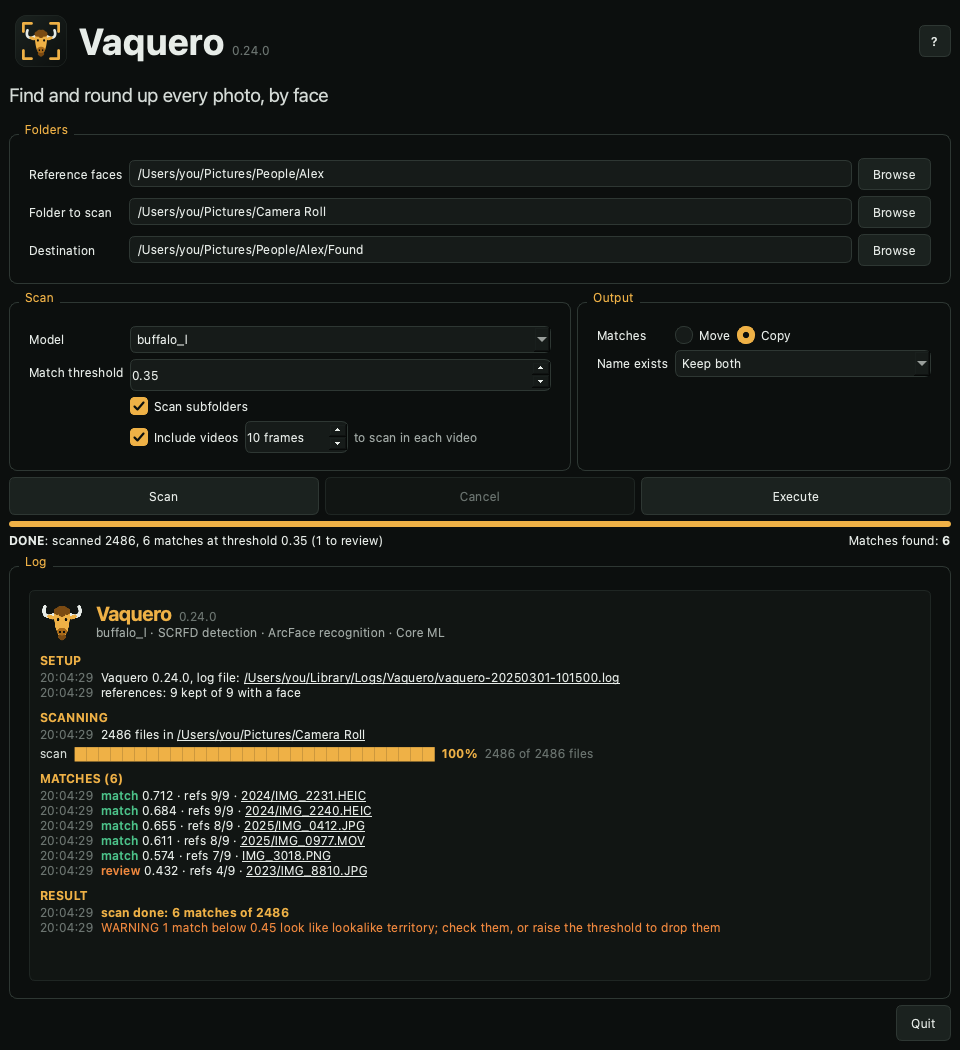
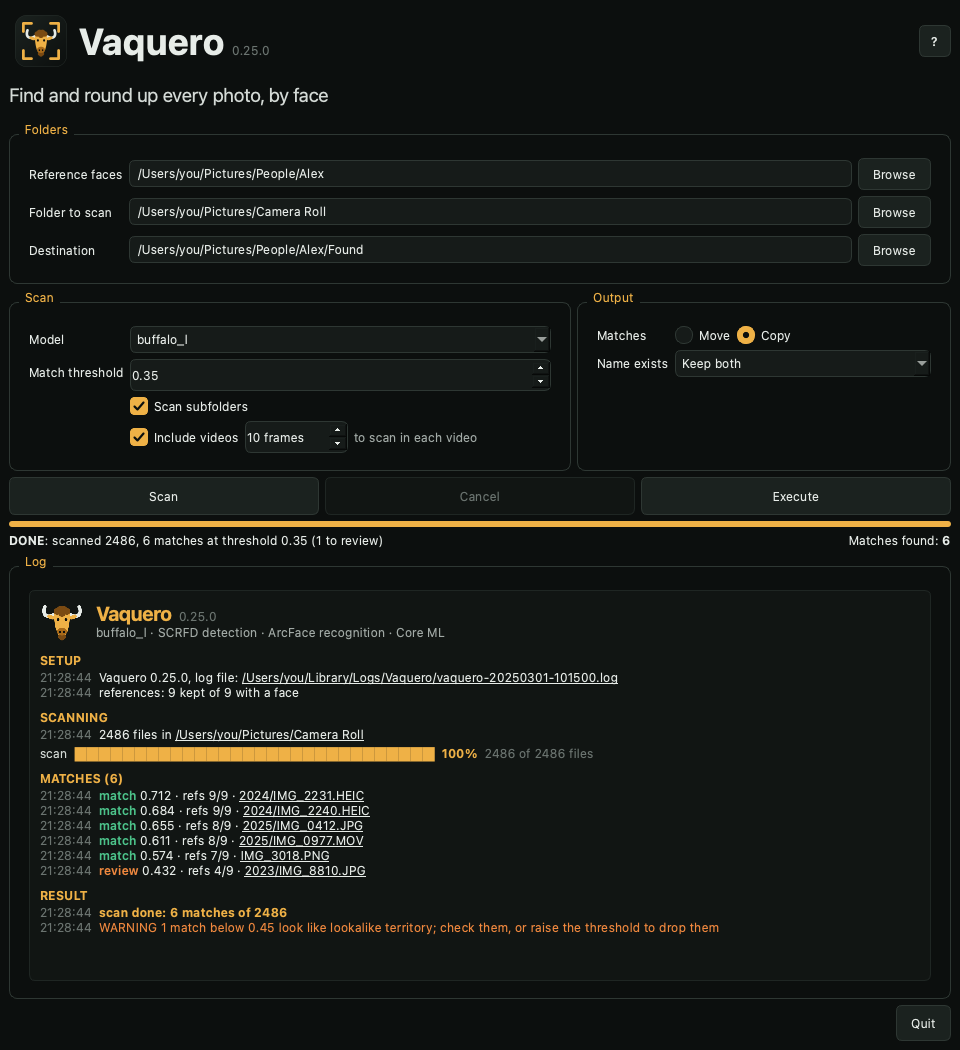
docs: animated screenshots of the first launch, a scan, and a scan through to a copy

Changed region(s): [[0.0312, 0.7314, 0.4062, 0.9143], [0.0312, 0.64, 0.6562, 0.701], [0.375, 0.8533, 0.4062, 0.8838]]

diff --git a/scripts/screenshots.py b/scripts/screenshots.py
@@ -1,4 +1,5 @@
-"""Renders the README screenshots into docs/screenshots from the real window, fed with sample data.
+"""Renders the screenshots into docs/screenshots from the real window, fed with sample data: stills as
+PNG, and the runs that show progress (first launch, a scan, a scan through to a copy) as animated WebP.
 
 Settings go to a throwaway file and no log file is written, so the saved folders of whoever runs this are
 neither shown nor changed.
@@ -6,19 +7,21 @@ neither shown nor changed.
 Run: QT_QPA_PLATFORM=offscreen uv run python scripts/screenshots.py
 """
 
+import io
 import logging
 import sys
 import tempfile
 from collections.abc import Callable
 from pathlib import Path
 
-from PySide6.QtCore import QSettings, QTimer
+from PIL import Image
+from PySide6.QtCore import QBuffer, QIODevice, QSettings, QTimer
 from PySide6.QtWidgets import QApplication, QDialog
 
 from vaquero import app as ui
 from vaquero import remote
 from vaquero import theme
-from vaquero.engine import ScanResult
+from vaquero.engine import ScanResult, Transfer
 
 OUT = Path(__file__).resolve().parent.parent / "docs" / "screenshots"
 HOME = Path("/Users/you/Pictures")
@@ -66,6 +69,108 @@ def grab(_: QApplication, widget: object, name: str) -> None:
     print(f"wrote {OUT / name}")
 
 
+FRAME_MS = 80
+HOLD_MS = 2600  # the last frame of an animation stays up this long before it loops
+
+
+class Recorder:
+    """Collects grabs of a widget as animation frames and writes them as one looping animated WebP."""
+
+    def __init__(self, widget: object) -> None:
+        self.widget = widget
+        self.frames: list[Image.Image] = []
+        self.durations: list[int] = []
+
+    def snap(self, ms: int = FRAME_MS) -> None:
+        QApplication.processEvents()
+        buf = QBuffer()
+        buf.open(QIODevice.OpenModeFlag.WriteOnly)
+        self.widget.grab().save(buf, "PNG")  # type: ignore[attr-defined]
+        self.frames.append(Image.open(io.BytesIO(bytes(buf.data()))).convert("RGB"))
+        self.durations.append(ms)
+
+    def save(self, name: str) -> None:
+        self.durations[-1] = HOLD_MS
+        first, *rest = self.frames
+        first.save(OUT / name, save_all=True, append_images=rest, duration=self.durations, loop=0, lossless=True, method=6)
+        print(f"wrote {OUT / name} ({len(self.frames)} frames)")
+
+
+def sample_results() -> list[ScanResult]:
+    results = [ScanResult(SOURCE / name, "image", score, 1, agree) for name, score, agree in SAMPLE]
+    return results + [ScanResult(SOURCE / f"IMG_{i:04d}.JPG", "image", 0.05, 1, 0) for i in range(TOTAL - len(SAMPLE))]
+
+
+def scan_frames(w: ui.Window, rec: Recorder, steps: int) -> None:
+    """A scan from its first file to its last, a frame per step; matches turn up as it goes."""
+    w.progress_line = None
+    w.live_found = 0
+    scan_setup(w)
+    QApplication.processEvents()  # log lines arrive queued; let them land before the progress line
+    w._set_busy(True)
+    hits = {round(TOTAL * k / (len(SAMPLE) + 1)) for k in range(1, len(SAMPLE) + 1)}
+    done = 0
+    for step in range(1, steps + 1):
+        target = TOTAL * step // steps
+        while done < target:
+            done += 1
+            w._on_progress(done, TOTAL, 0.6 if done in hits else 0.1)
+        rec.snap()
+
+
+def animate(w: ui.Window) -> None:
+    # first launch: the face model downloads, then the app is ready
+    w.progress_line = None
+    w.live_found = 0
+    w._show_found(0)
+    w.log_view.clear()
+    w._banner()
+    ui.section("Face model")
+    ui.log.info("Downloading face detection model (%s), please wait...", ui.DEFAULT_PACK)
+    QApplication.processEvents()
+    w.bytes_text = "Downloading face detection model, please wait..."
+    w._set_busy(True)
+    rec = Recorder(w)
+    size = remote.MODEL_ARCHIVE.size
+    for step in range(31):
+        w._on_bytes(size * step // 30, size)
+        rec.snap()
+    w._set_busy(False)
+    ui.log.info("face detection model installed, ready to scan")
+    w._done("face detection model installed")
+    rec.snap()
+    rec.save("first-launch.webp")
+
+    # a scan running
+    rec = Recorder(w)
+    scan_frames(w, rec, 40)
+    rec.save("scanning.webp")
+
+    # a scan through to its matches, then a copy of them
+    w.resize(w.width(), 1050)
+    rec = Recorder(w)
+    scan_frames(w, rec, 24)
+    w._on_finished(sample_results(), False, REFS_KEPT)
+    w.execute_btn.setEnabled(True)
+    w.log_view.verticalScrollBar().setValue(0)
+    for _ in range(18):  # the matches stay up a moment before the copy starts
+        rec.snap()
+    w.transfer_mode = Transfer.COPY
+    ui.section("Copy")
+    ui.log.info("copying %d files to %s", len(SAMPLE), DEST, extra={"link": DEST, "link_text": str(DEST)})
+    QApplication.processEvents()
+    w._set_busy(True)
+    for done in range(len(SAMPLE) + 1):
+        w._on_transfer_progress(done, len(SAMPLE))
+        rec.snap(160)
+    ui.log.info("copy done: %d copied, 0 failed", len(SAMPLE))
+    w._set_busy(False)
+    w._done(f"copied {len(SAMPLE)}, 0 failed. Undo list in vaquero-moves.csv")
+    w.log_view.verticalScrollBar().setValue(w.log_view.verticalScrollBar().maximum())
+    rec.snap()
+    rec.save("scan-and-copy.webp")
+
+
 def main() -> None:
     ui.log.setLevel(logging.INFO)
     qa = QApplication(sys.argv)
@@ -79,34 +184,12 @@ def main() -> None:
         w.show()
         fill(w)
 
-        # first launch: the model pack downloading into the log
-        w.log_view.clear()
-        w._banner()
-        ui.section("Face model")
-        ui.log.info("Downloading face detection model (%s), please wait...", ui.DEFAULT_PACK)
-        QApplication.processEvents()
-        w.bytes_text = "Downloading face detection model, please wait..."
-        w._set_busy(True)
-        w._on_bytes(180_000_000, remote.MODEL_ARCHIVE.size)
-        grab(qa, w, "first-launch.png")
-
-        # mid-scan
-        w.progress_line = None
-        scan_setup(w)
-        QApplication.processEvents()
-        w.live_found = 0
-        for done in range(1, 1490):
-            w._on_progress(done, TOTAL, 0.6 if done % 300 == 0 else 0.1)
-        grab(qa, w, "scanning.png")
-
         # scan finished, matches listed
         w.progress_line = None
         scan_setup(w)
         QApplication.processEvents()
         w._on_progress(TOTAL, TOTAL, 0.1)
-        results = [ScanResult(SOURCE / name, "image", score, 1, agree) for name, score, agree in SAMPLE]
-        results += [ScanResult(SOURCE / f"IMG_{i:04d}.JPG", "image", 0.05, 1, 0) for i in range(TOTAL - len(SAMPLE))]
-        w._on_finished(results, False, REFS_KEPT)
+        w._on_finished(sample_results(), False, REFS_KEPT)
         w._set_busy(False)
         w.execute_btn.setEnabled(True)
         # tall enough that the whole log, buffalo banner included, fits without scrolling
@@ -114,6 +197,9 @@ def main() -> None:
         QApplication.processEvents()
         w.log_view.verticalScrollBar().setValue(0)
         grab(qa, w, "results.png")
+
+        w.resize(w.width(), w.sizeHint().height())
+        animate(w)
 
         def dialog_shot(name: str) -> None:
             dialog = next(x for x in qa.topLevelWidgets() if isinstance(x, QDialog) and x.isVisible())

diff --git a/README.md b/README.md
@@ -40,7 +40,7 @@
 <br>
 
 <p align="center">
-  <img src="docs/screenshots/results.png" alt="Vaquero after a scan, with the matches listed in the log" width="760"/>
+  <img src="docs/screenshots/scan-and-copy.webp" alt="Vaquero scanning a folder, listing the matches, then copying them" width="760"/>
 </p>
 
 ---
@@ -60,7 +60,7 @@ Three to five clear photos of the person are enough. No training.
 
 | First launch | Scanning |
 |---|---|
-| <img src="docs/screenshots/first-launch.png" alt="Face model downloading on first launch" width="420"/> | <img src="docs/screenshots/scanning.png" alt="A scan in progress" width="420"/> |
+| <img src="docs/screenshots/first-launch.webp" alt="Face model downloading on first launch" width="420"/> | <img src="docs/screenshots/scanning.webp" alt="A scan in progress" width="420"/> |
 
 | Help | Settings |
 |---|---|

diff --git a/docs/install.md b/docs/install.md
@@ -15,6 +15,8 @@ description: Download Vaquero, open it, and allow the folders it reads.
 2. Open it and drag **Vaquero** onto **Applications**.
 3. Open Vaquero from Applications. The first launch downloads the face model (about 290 MB); scanning waits until it finishes.
 
+![The face model downloading on first launch](screenshots/first-launch.webp)
+
 Vaquero is signed with a Developer ID and notarized by Apple.
 
 ## Permissions

diff --git a/docs/using.md b/docs/using.md
@@ -3,7 +3,7 @@ title: Using Vaquero
 description: Pick the folders, scan, check the matches, then copy or move them.
 ---
 
-![Vaquero after a scan, with the matches listed in the log](screenshots/results.png)
+![Vaquero scanning a folder, listing the matches, then copying them](screenshots/scan-and-copy.webp)
 
 ## A scan, start to finish
 
